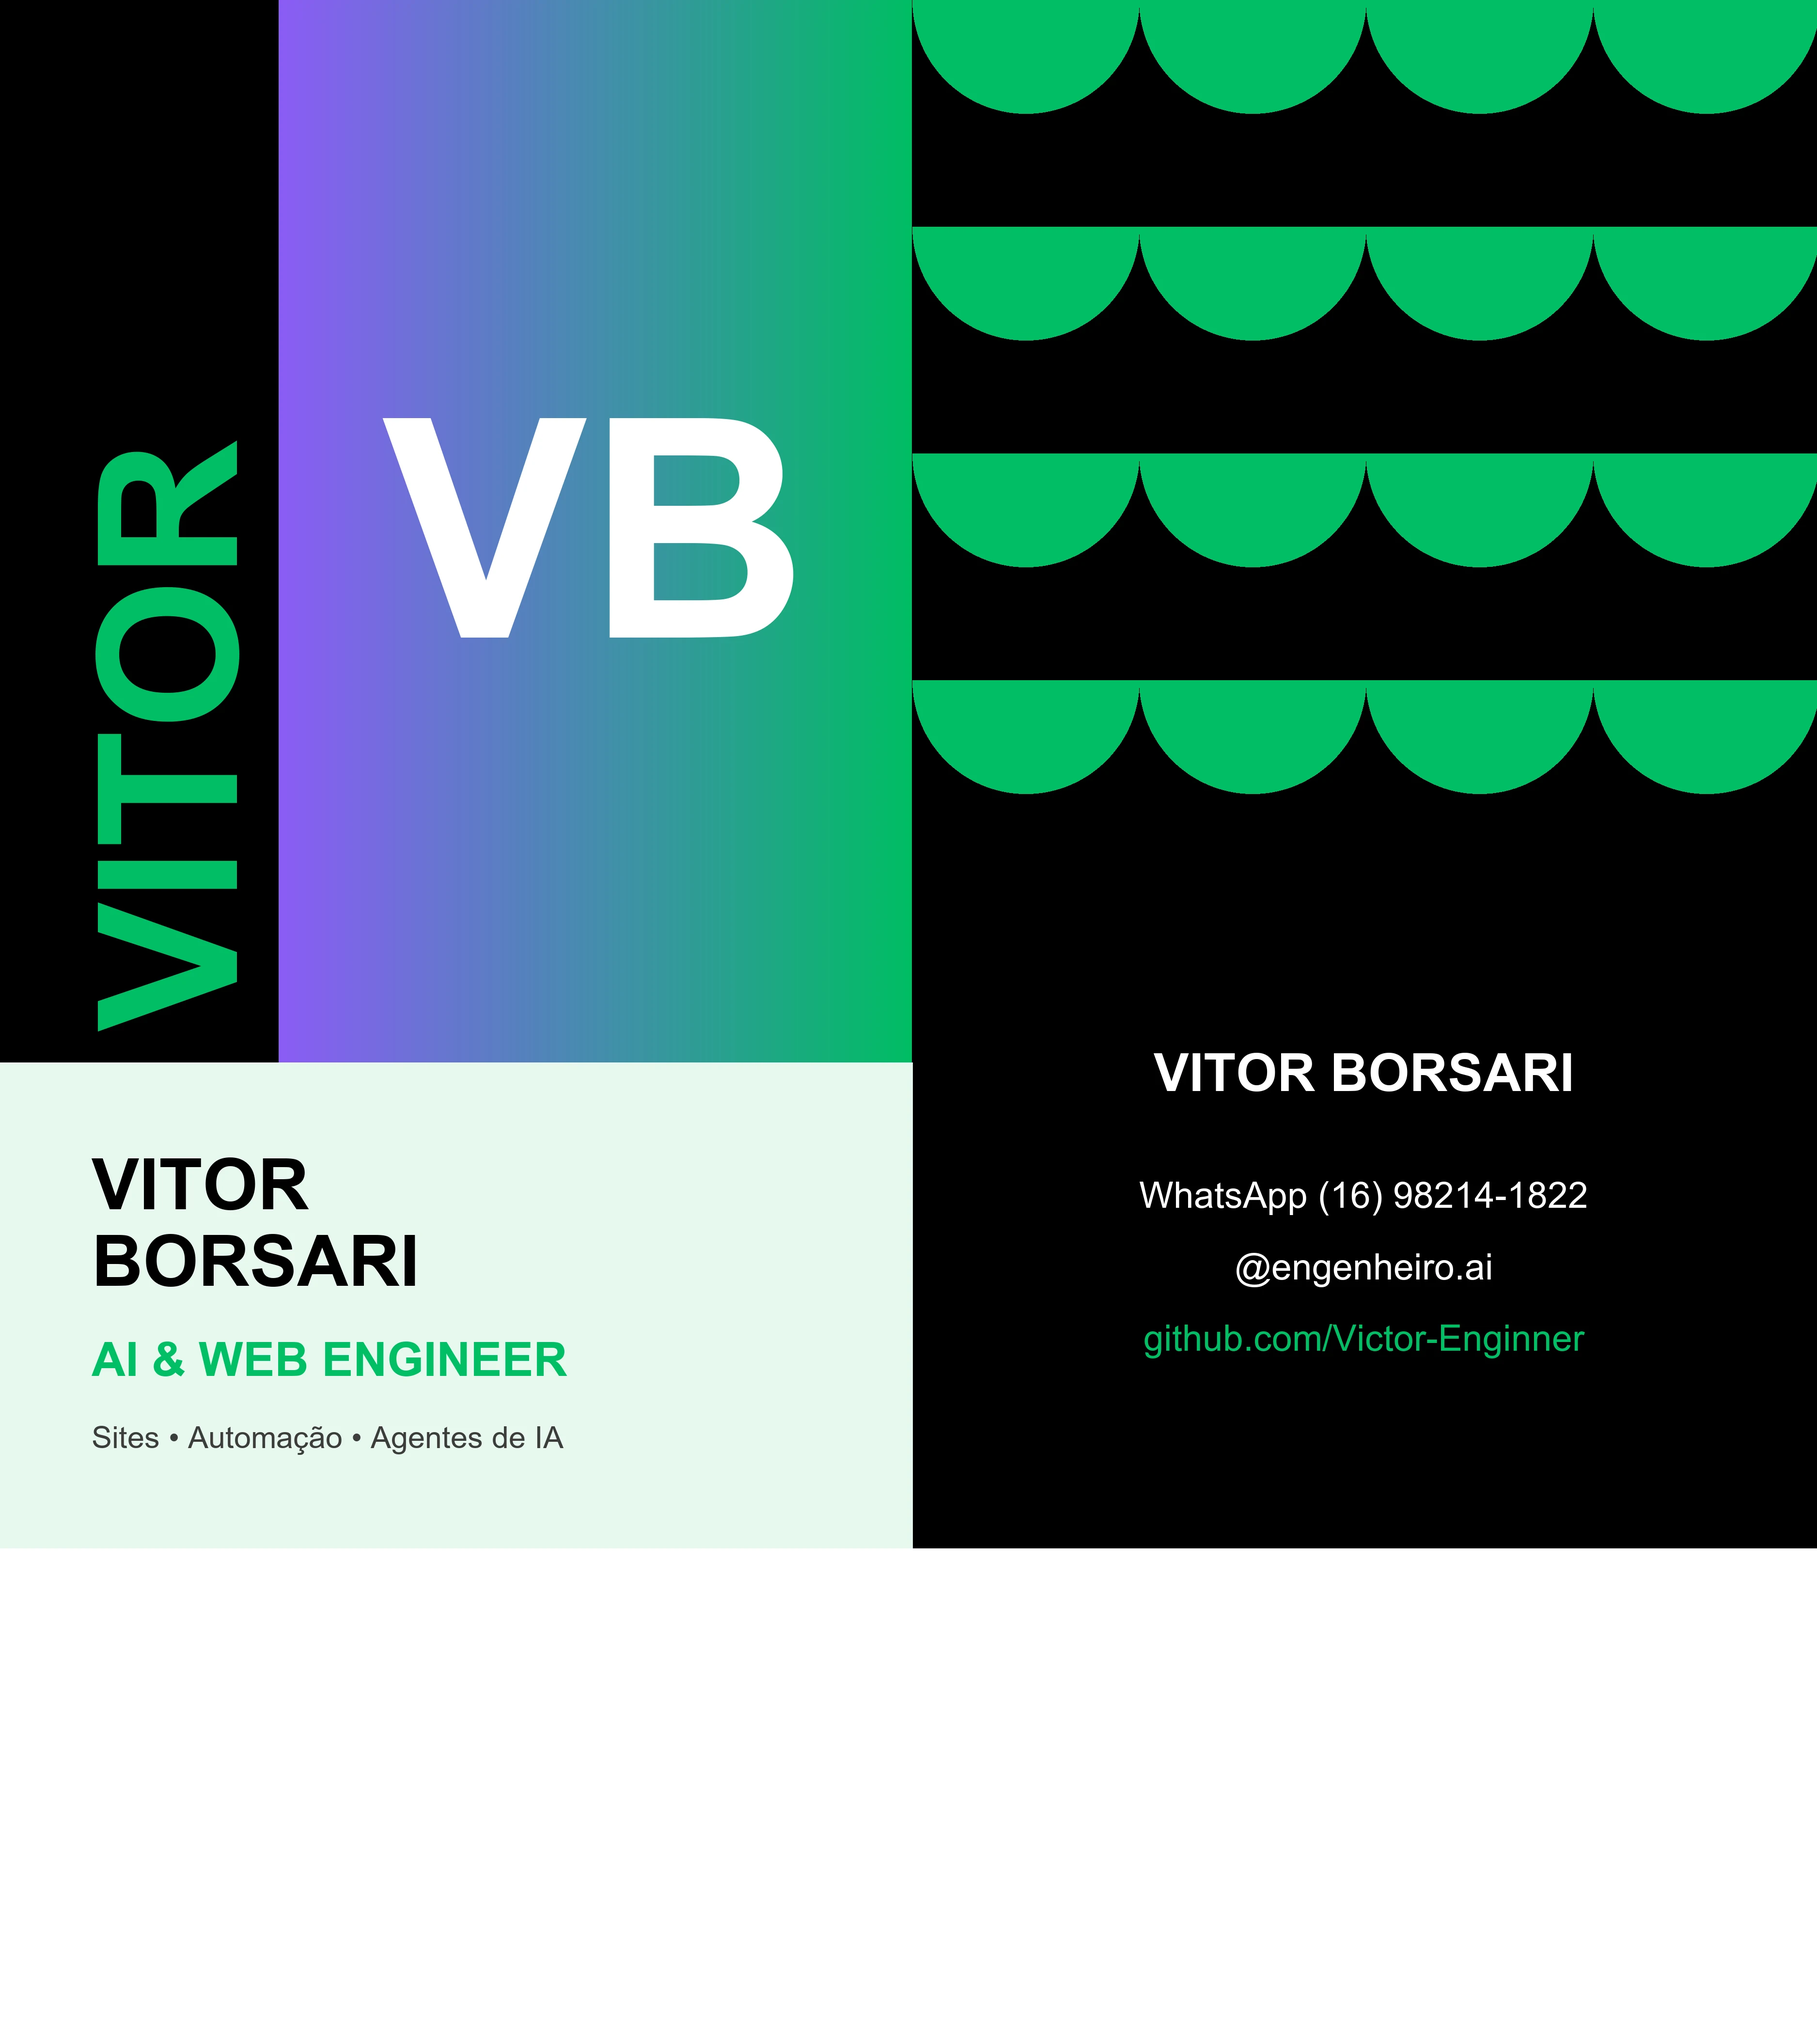
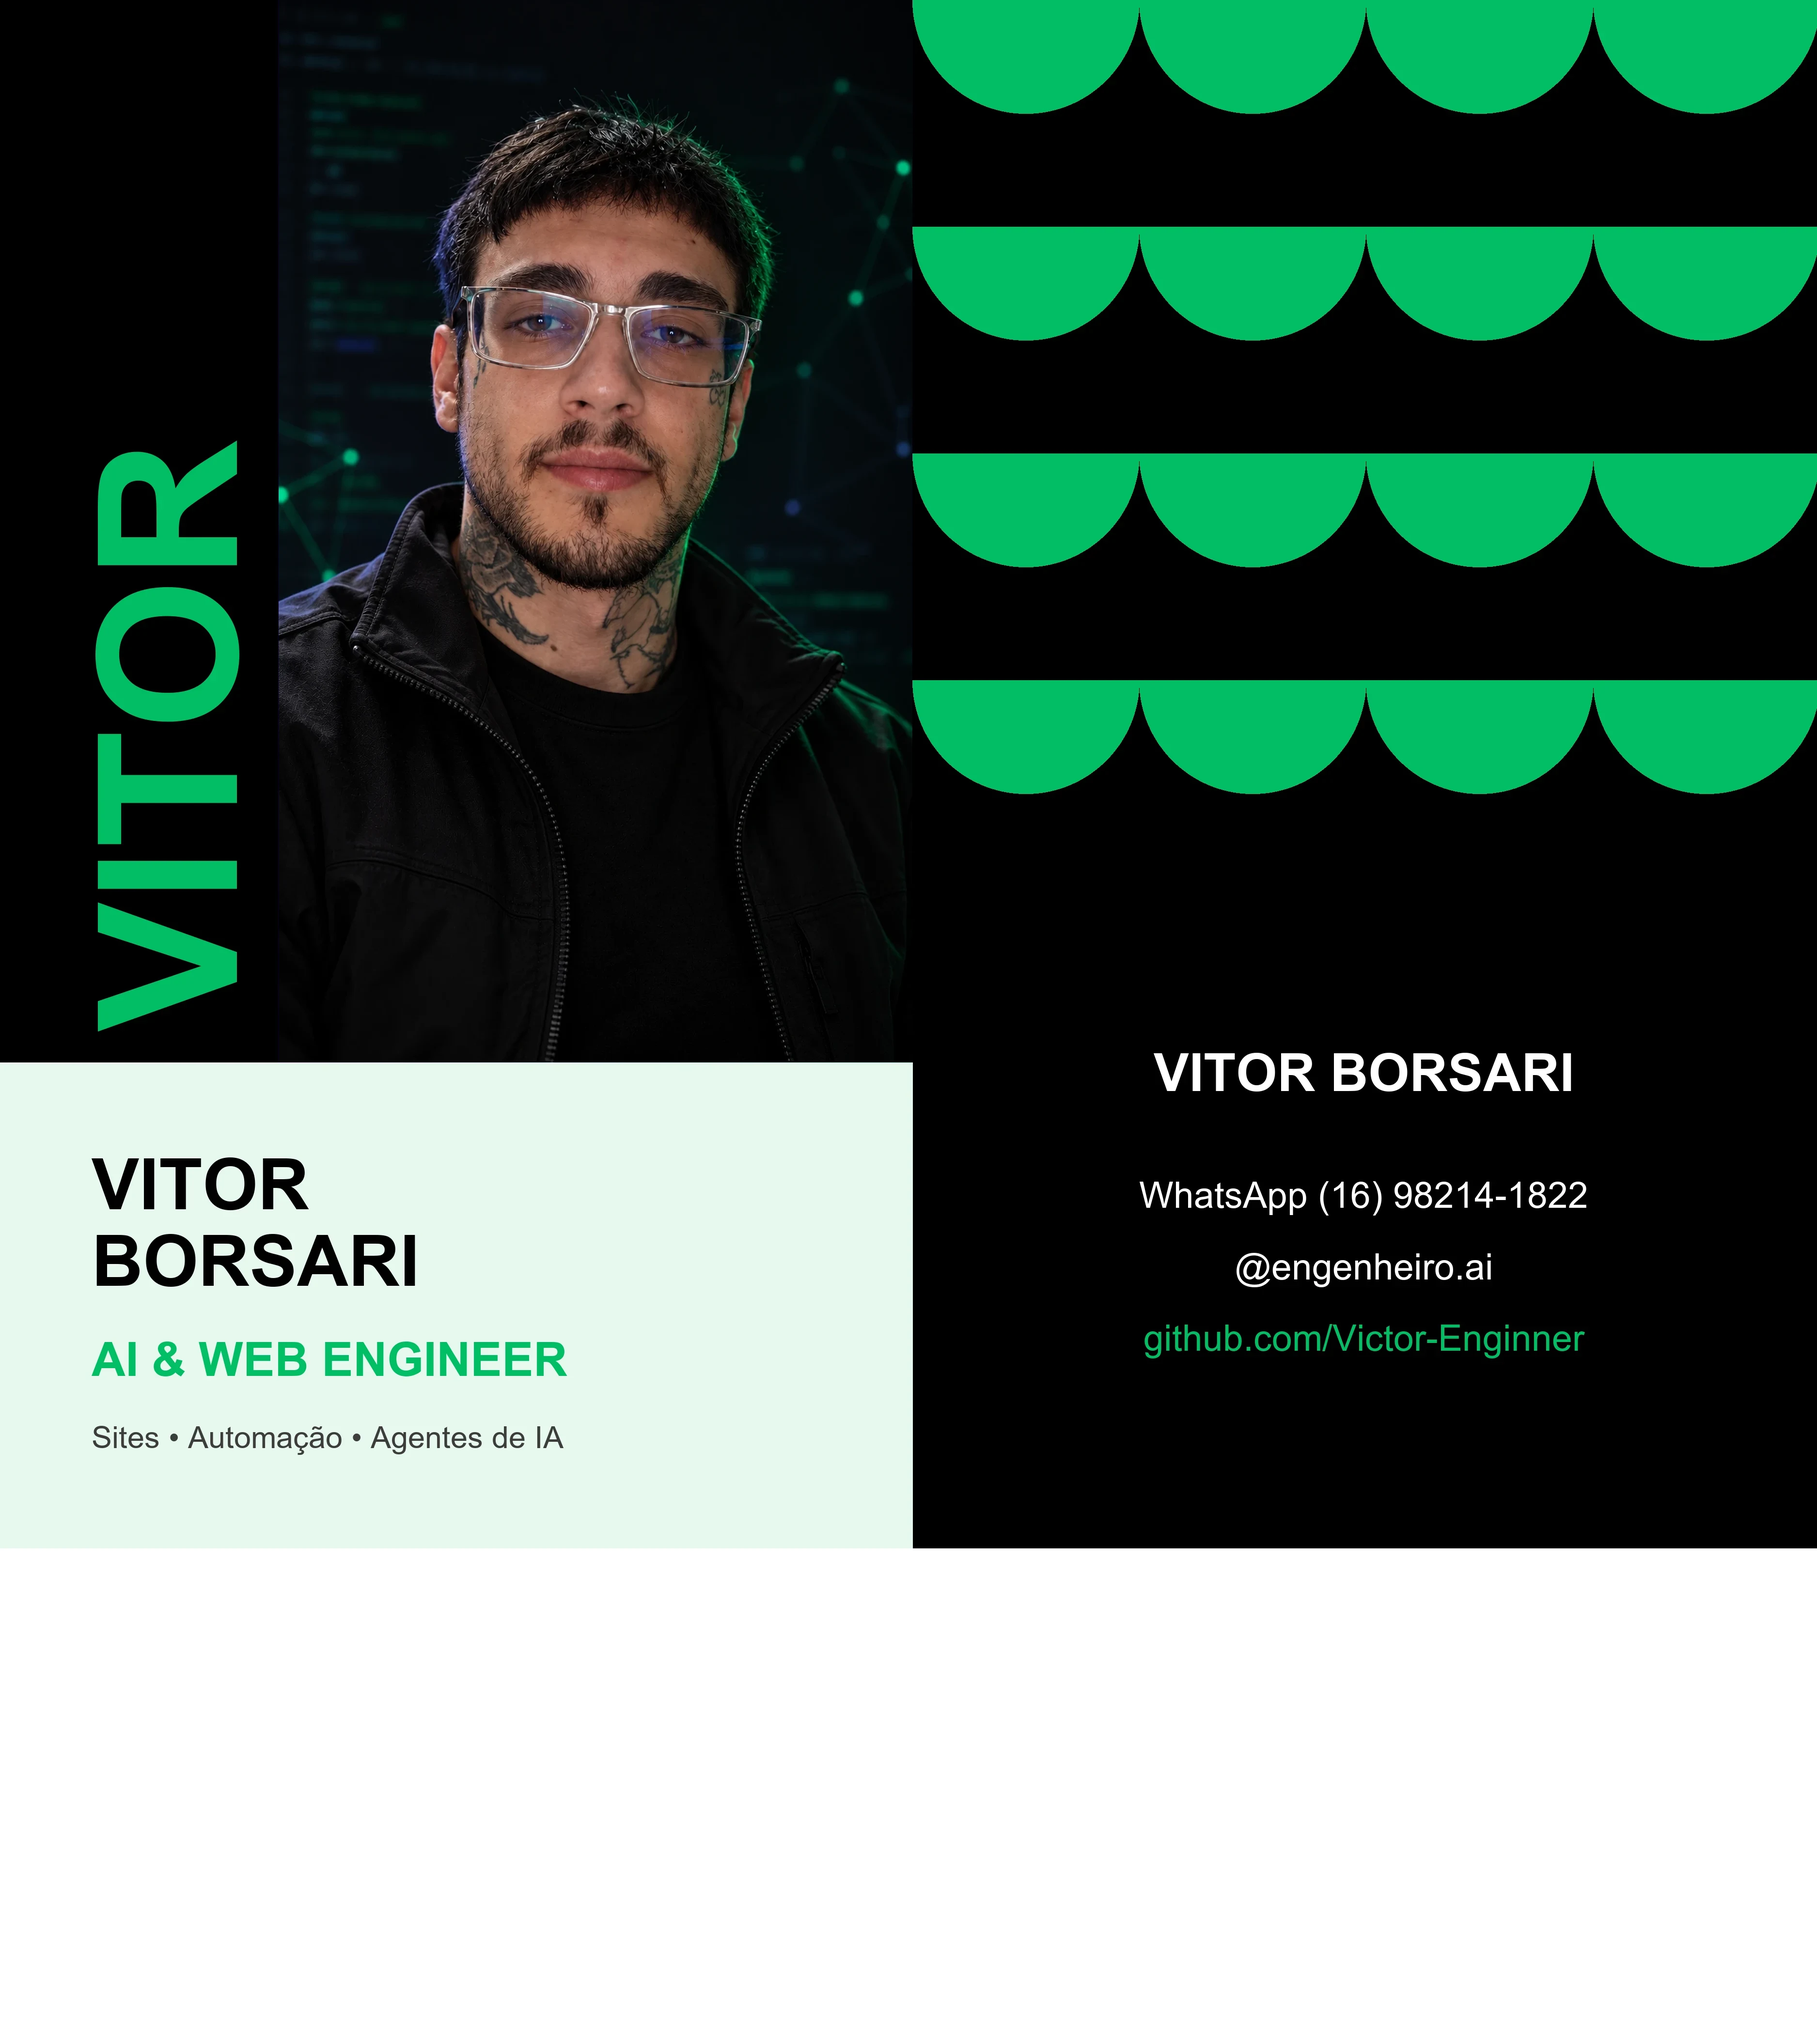
feat: foto real no crachá 3D e no perfil; LinkedIn/WhatsApp sem @

Changed region(s): [[0.156, 0.0, 0.4992, 0.5279]]

diff --git a/src/app/contact/page.tsx b/src/app/contact/page.tsx
@@ -79,7 +79,7 @@ function SocialCard({ item }: { item: any }) {
                 </div>
                 <div className="flex flex-col">
                     <span className="text-lg font-bold text-foreground group-hover:text-primary transition-colors tracking-tight">{item.name}</span>
-                    <span className="text-xs font-medium text-muted-foreground group-hover:text-foreground/80">@{item.username}</span>
+                    <span className="text-xs font-medium text-muted-foreground group-hover:text-foreground/80">{item.name === "LinkedIn" || item.name === "WhatsApp" ? item.username : `@${item.username}`}</span>
                 </div>
             </div>
 

diff --git a/src/data/portfolio.ts b/src/data/portfolio.ts
@@ -11,7 +11,7 @@ export const portfolioData: PortfolioData = {
         title: 'Engenheiro de IA & Desenvolvedor Web',
         subtitle: 'Sites, automações e agentes de IA que trazem cliente para o seu negócio',
         bio: 'Construo sites de alta conversão, automações de WhatsApp e agentes de IA para pequenos negócios que querem vender mais sem contratar uma equipe. Trabalho do briefing ao deploy: design, código, prospecção automatizada e publicação.',
-        avatar: '/about/avatar-temporario.jpg',
+        avatar: '/about/vitor.webp',
         location: 'São Paulo, Brasil',
         email: 'shoponsup@gmail.com',
         phone: '+55 16 98214-1822',
